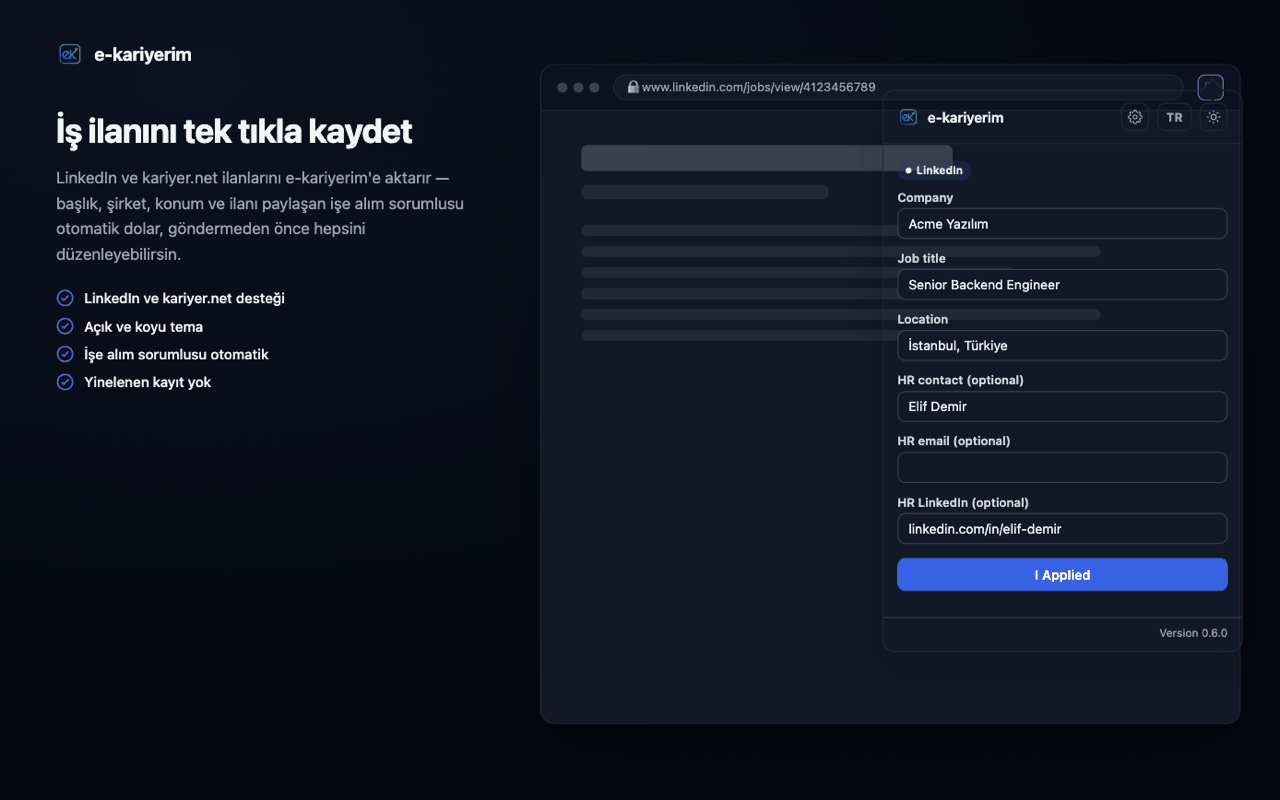
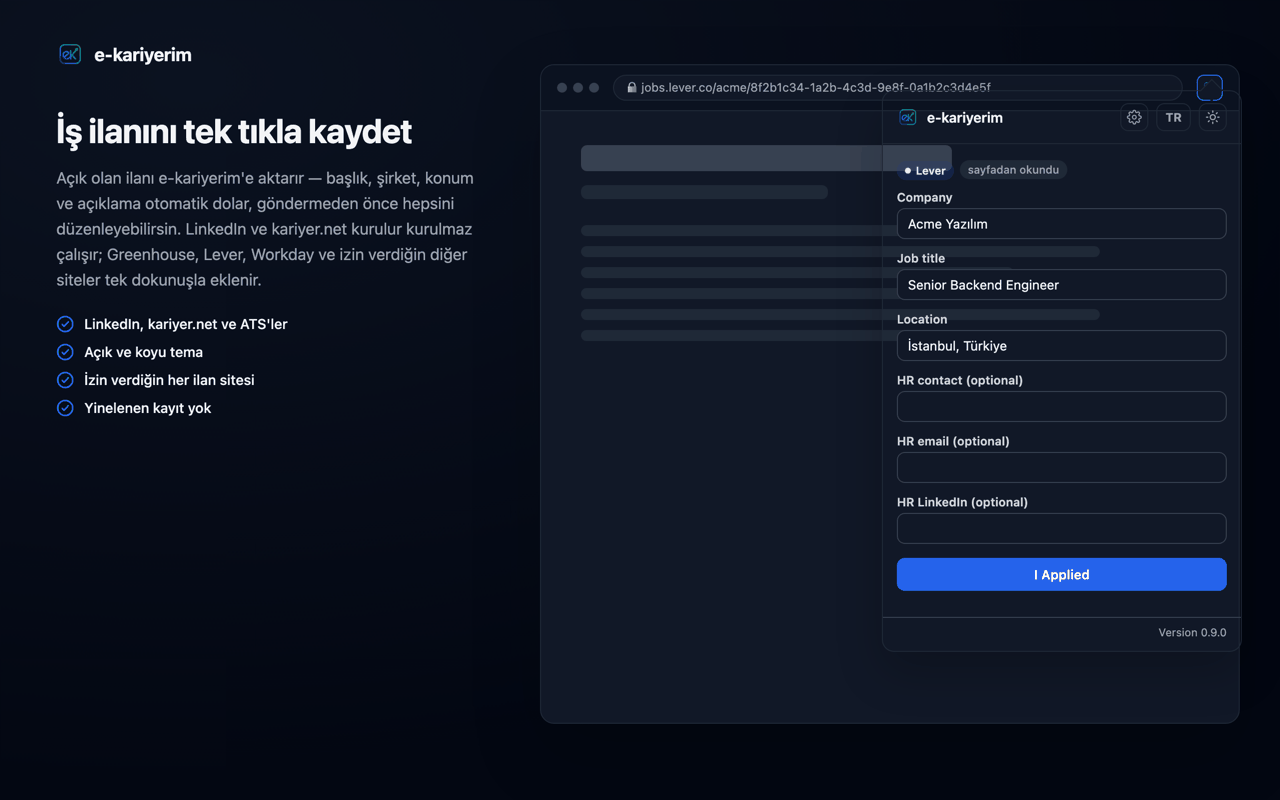
Say on the site what 0.9.0 actually does, once the store is serving it
The landing strip, the feature section and the help article still promise
LinkedIn and kariyer.net, which is what the extension was until 0.9.0.
The store listing and the privacy page were updated with the release; the
site's own copy was deliberately left behind, because describing an
"Allow" button, an "Add it by hand" escape and a Settings list of allowed
sites to someone who installs 0.8.0 from the Web Store is a help page
that does not match the product in their browser. This branch is that
copy, and it merges when 0.9.0 is live.

What changes: the tools strip and feature section name the ATS family and
the per-site permission instead of two sites; the hiring-contact bullet
now says "on LinkedIn postings", since an ATS posting publishes no
contact; the help article opens on "the posting you have open", its first
step explains the Allow button, its auto-fill warning explains the
schema.org read and says plainly that Greenhouse boards give only the
title; and a new note says the sites you allow are listed in Settings and
removable there. The landing mock and the Web Store popup scene move to
the same Lever posting with the provenance badge, which is what a
contract test already required of the pair.

The help centre's options screenshot comes with them: it shows the
Settings section that only 0.9.0 has.

diff --git a/extension/store-listing/screenshots/scene-job.html b/extension/store-listing/screenshots/scene-job.html
@@ -207,11 +207,11 @@
 
   <div class="headline">
     <h1>İş ilanını tek tıkla kaydet</h1>
-    <p>LinkedIn ve kariyer.net ilanlarını e-kariyerim'e aktarır — başlık, şirket, konum ve ilanı paylaşan işe alım sorumlusu otomatik dolar, göndermeden önce hepsini düzenleyebilirsin.</p>
+    <p>Açık olan ilanı e-kariyerim'e aktarır — başlık, şirket, konum ve açıklama otomatik dolar, göndermeden önce hepsini düzenleyebilirsin. LinkedIn ve kariyer.net kurulur kurulmaz çalışır; Greenhouse, Lever, Workday ve izin verdiğin diğer siteler tek dokunuşla eklenir.</p>
     <ul>
-      <li><svg class="check" viewBox="0 0 24 24" fill="none" stroke="currentColor" stroke-width="2" stroke-linecap="round" stroke-linejoin="round"><circle cx="12" cy="12" r="10"/><path d="M8 12.5l2.5 2.5L16 9"/></svg>LinkedIn ve kariyer.net desteği</li>
+      <li><svg class="check" viewBox="0 0 24 24" fill="none" stroke="currentColor" stroke-width="2" stroke-linecap="round" stroke-linejoin="round"><circle cx="12" cy="12" r="10"/><path d="M8 12.5l2.5 2.5L16 9"/></svg>LinkedIn, kariyer.net ve ATS'ler</li>
       <li><svg class="check" viewBox="0 0 24 24" fill="none" stroke="currentColor" stroke-width="2" stroke-linecap="round" stroke-linejoin="round"><circle cx="12" cy="12" r="10"/><path d="M8 12.5l2.5 2.5L16 9"/></svg>Açık ve koyu tema</li>
-      <li><svg class="check" viewBox="0 0 24 24" fill="none" stroke="currentColor" stroke-width="2" stroke-linecap="round" stroke-linejoin="round"><circle cx="12" cy="12" r="10"/><path d="M8 12.5l2.5 2.5L16 9"/></svg>İşe alım sorumlusu otomatik</li>
+      <li><svg class="check" viewBox="0 0 24 24" fill="none" stroke="currentColor" stroke-width="2" stroke-linecap="round" stroke-linejoin="round"><circle cx="12" cy="12" r="10"/><path d="M8 12.5l2.5 2.5L16 9"/></svg>İzin verdiğin her ilan sitesi</li>
       <li><svg class="check" viewBox="0 0 24 24" fill="none" stroke="currentColor" stroke-width="2" stroke-linecap="round" stroke-linejoin="round"><circle cx="12" cy="12" r="10"/><path d="M8 12.5l2.5 2.5L16 9"/></svg>Yinelenen kayıt yok</li>
     </ul>
   </div>
@@ -219,7 +219,7 @@
   <div class="browser">
     <div class="browser-chrome">
       <div class="dots"><span></span><span></span><span></span></div>
-      <div class="address">🔒 www.linkedin.com/jobs/view/4123456789</div>
+      <div class="address">🔒 jobs.lever.co/acme/8f2b1c34-1a2b-4c3d-9e8f-0a1b2c3d4e5f</div>
       <div class="toolbar-icon">
         <img src="../../icons/icon48.png" alt="" />
       </div>
@@ -250,7 +250,7 @@
         <button id="sceneThemeToggle" class="theme-toggle" type="button" aria-hidden="true" tabindex="-1"></button>
       </header>
       <main id="content">
-        <span class="site-badge">LinkedIn</span>
+        <span class="site-badge">Lever</span><span class="site-badge muted-badge">sayfadan okundu</span>
         <label>Company</label>
         <input type="text" value="Acme Yazılım" readonly />
         <label>Job title</label>
@@ -258,14 +258,14 @@
         <label>Location</label>
         <input type="text" value="İstanbul, Türkiye" readonly />
         <label>HR contact (optional)</label>
-        <input type="text" value="Elif Demir" readonly />
+        <input type="text" value="" readonly />
         <label>HR email (optional)</label>
         <input type="email" value="" readonly />
         <label>HR LinkedIn (optional)</label>
-        <input type="text" value="linkedin.com/in/elif-demir" readonly />
+        <input type="text" value="" readonly />
         <button class="primary">I Applied</button>
       </main>
-      <footer class="version-line">Version 0.6.0</footer>
+      <footer class="version-line">Version 0.9.0</footer>
     </div>
   </div>
   </div>

diff --git a/web/src/components/landing/ExtensionPopupMock.tsx b/web/src/components/landing/ExtensionPopupMock.tsx
@@ -4,10 +4,15 @@ import { SampleDataBadge } from "@/components/landing/SampleDataBadge";
 import { LogoMark } from "@/components/layout/Logo";
 
 /**
- * The extension's popup, open over a LinkedIn job page, as markup with demo values.
+ * The extension's popup, open over an applicant-tracking-system job page, as markup with demo
+ * values.
  *
  * The values are the ones the Web Store screenshots use (extension/store-listing/screenshots/
- * scene-job.html), so the store and the site show the same job. The field labels come from the
+ * scene-job.html), so the store and the site show the same job — a contract a test holds to. It
+ * is an ATS posting rather than a LinkedIn one since 0.9.0, because that is the release's whole
+ * point: the second badge is the popup's own "read from the page" note, which appears exactly
+ * when the fields came from the page's schema.org markup rather than a site-specific reader. An
+ * ATS posting publishes no hiring contact, so that field is empty here, as it is in the popup. The field labels come from the
  * catalogue under the extension's own words — a Turkish visitor sees the popup a Turkish user gets.
  *
  * Accessibility: the whole thing is one picture. `role="img"` with a one-sentence label on the
@@ -16,12 +21,12 @@ import { LogoMark } from "@/components/layout/Logo";
  * badge sits outside the picture so it is announced.
  */
 const DEMO = {
-  url: "www.linkedin.com/jobs/view/4123456789",
-  source: "LinkedIn",
+  url: "jobs.lever.co/acme/8f2b1c34-1a2b-4c3d-9e8f-0a1b2c3d4e5f",
+  source: "Lever",
   company: "Acme Yazılım",
   jobTitle: "Senior Backend Engineer",
   location: "İstanbul, Türkiye",
-  contact: "Elif Demir",
+  contact: "",
 } as const;
 
 const SKELETON_WIDTHS = ["w-11/12", "w-5/6", "w-7/12", "w-10/12", "w-5/6", "w-11/12"];
@@ -63,6 +68,9 @@ export function ExtensionPopupMock({ className = "" }: { className?: string }) {
                 <span className="inline-flex w-fit items-center gap-1.5 rounded-full bg-accent-wash px-2 py-0.5 text-[11px] font-semibold text-accent-ink">
                   <span className="h-1.5 w-1.5 rounded-full bg-current" />
                   {DEMO.source}
+                </span>
+                <span className="-mt-1 inline-flex w-fit items-center rounded-full bg-gray-100 px-2 py-0.5 text-[11px] font-medium text-gray-500 dark:bg-gray-800 dark:text-gray-400">
+                  {t("readFromPage")}
                 </span>
                 {fields.map((field) => (
                   <div key={field.label}>

diff --git a/web/src/components/landing/landing.contract.test.ts b/web/src/components/landing/landing.contract.test.ts
@@ -153,11 +153,26 @@ describe("the extension mock", () => {
   });
 
   it("shows the same job as the Web Store screenshots", () => {
+    // The store shot and the landing mock are two hand-built pictures of one popup; the only thing
+    // keeping them from drifting apart is this list. Since 0.9.0 the job is an ATS posting — the
+    // release's own story — so the site badge and the "read from the page" note travel with it.
     const scene = read("../extension/store-listing/screenshots/scene-job.html");
-    for (const value of ["Acme Yazılım", "Senior Backend Engineer", "İstanbul, Türkiye", "Elif Demir"]) {
+    for (const value of ["Acme Yazılım", "Senior Backend Engineer", "İstanbul, Türkiye", "Lever"]) {
       expect(source, value).toContain(value);
       expect(scene, `${value} in scene-job.html`).toContain(value);
     }
+  });
+
+  it("carries the provenance note the popup renders for a page read through its markup", () => {
+    const scene = read("../extension/store-listing/screenshots/scene-job.html");
+    expect(source).toContain('t("readFromPage")');
+    expect(scene).toContain("muted-badge");
+  });
+
+  /** An ATS posting publishes no hiring contact, and the popup leaves that field empty — showing a
+   *  name there would advertise something the capture cannot do on these sites. */
+  it("shows no hiring contact on the ATS posting", () => {
+    expect(source).not.toContain("Elif Demir");
   });
 });
 

diff --git a/web/src/app/[locale]/(public)/help/chrome-extension/page.tsx b/web/src/app/[locale]/(public)/help/chrome-extension/page.tsx
@@ -96,6 +96,13 @@ export default async function ChromeExtensionHelpPage({ params }: PageProps<"/[l
       <Callout variant="info" label={tCommon("note")} title={t("calloutDedupe.title")}>
         {t("calloutDedupe.body")}
       </Callout>
+
+      {/* 0.9.0 asks for a host permission per site, so the help centre has to say what that grant
+          covers and where it is taken back — the extension privacy page says it too, and the two
+          must not drift. */}
+      <Callout variant="info" label={tCommon("note")} title={t("calloutPermission.title")}>
+        {t("calloutPermission.body")}
+      </Callout>
     </div>
   );
 }

diff --git a/extension/store-listing/screenshots/README.md b/extension/store-listing/screenshots/README.md
@@ -18,12 +18,31 @@ showing the old logo. Prefer a shared asset over a copied glyph here.
 
 ## Regenerating them
 
-Last shot 2026-09-22 for `0.9.0` — `options-light.png` only, for the "Sites you allowed" section
-Settings gained with the per-site runtime permission. **The two popup shots were left alone on
-purpose, and the reasoning is worth keeping**: `0.9.0` adds a provenance badge to the popup's form,
-but `buildForm()` renders it only for `foundBy === "jsonld"` or `"meta"`. The scene shows a
-LinkedIn job, whose strategy reports `foundBy: "linkedin"` — so the badge does not appear there and
-the shot is still accurate. A future scene built on an ATS posting would need it.
+Last shot 2026-09-22 for `0.9.0` — all three.
+
+`options-light.png` for the "Sites you allowed" section Settings gained with the per-site runtime
+permission.
+
+`popup-light.png` / `popup-dark.png` were reshot too, and the first reason to leave them alone
+turned out to be the wrong one. The badge argument said: `0.9.0` adds a provenance badge that
+`buildForm()` renders only for `foundBy === "jsonld"`/`"meta"`, the scene shows a LinkedIn job
+(`foundBy: "linkedin"`), so the badge would not appear and the shot was still accurate. True as far
+as it goes — but the scene is a *marketing* composition, and its copy said "LinkedIn ve kariyer.net
+desteği" and "Version 0.6.0" while the release it illustrates is the one that stops the extension
+being a two-site tool. The screenshot was not stale in its widget rendering; it was stale in what
+it promised. The scene is now a Lever posting with the provenance badge beside the site badge, the
+bullets name the ATS family and the runtime permission, and the version line reads 0.9.0.
+
+**That reshoot caught a second styling bug**, the same way the options one did. `buildForm()`
+renders the provenance note as `<span class="site-badge muted-badge">` — and `muted-badge` did not
+exist in `popup.css`. The note therefore rendered in the accent pill, identical to the site badge
+next to it, so "Greenhouse · sayfadan okundu" read as two site names. `popup.css` now carries the
+modifier (muted surface, no leading dot). Reviewing the markup would not have shown it; rendering
+it did.
+
+The help centre's `chrome-extension-popup.png` was *not* reshot, and here the badge argument does
+hold: it is the real `popup.html` on a LinkedIn job, where `foundBy` is `"linkedin"` and no
+provenance badge renders. Nothing else in that view changed.
 
 `scene-options.html` had to lose two rows to fit: the "Not connected yet." status and the "Enter a
 key by hand" row. The canvas is a fixed 1280×800 and the card grew by a whole section; without that
